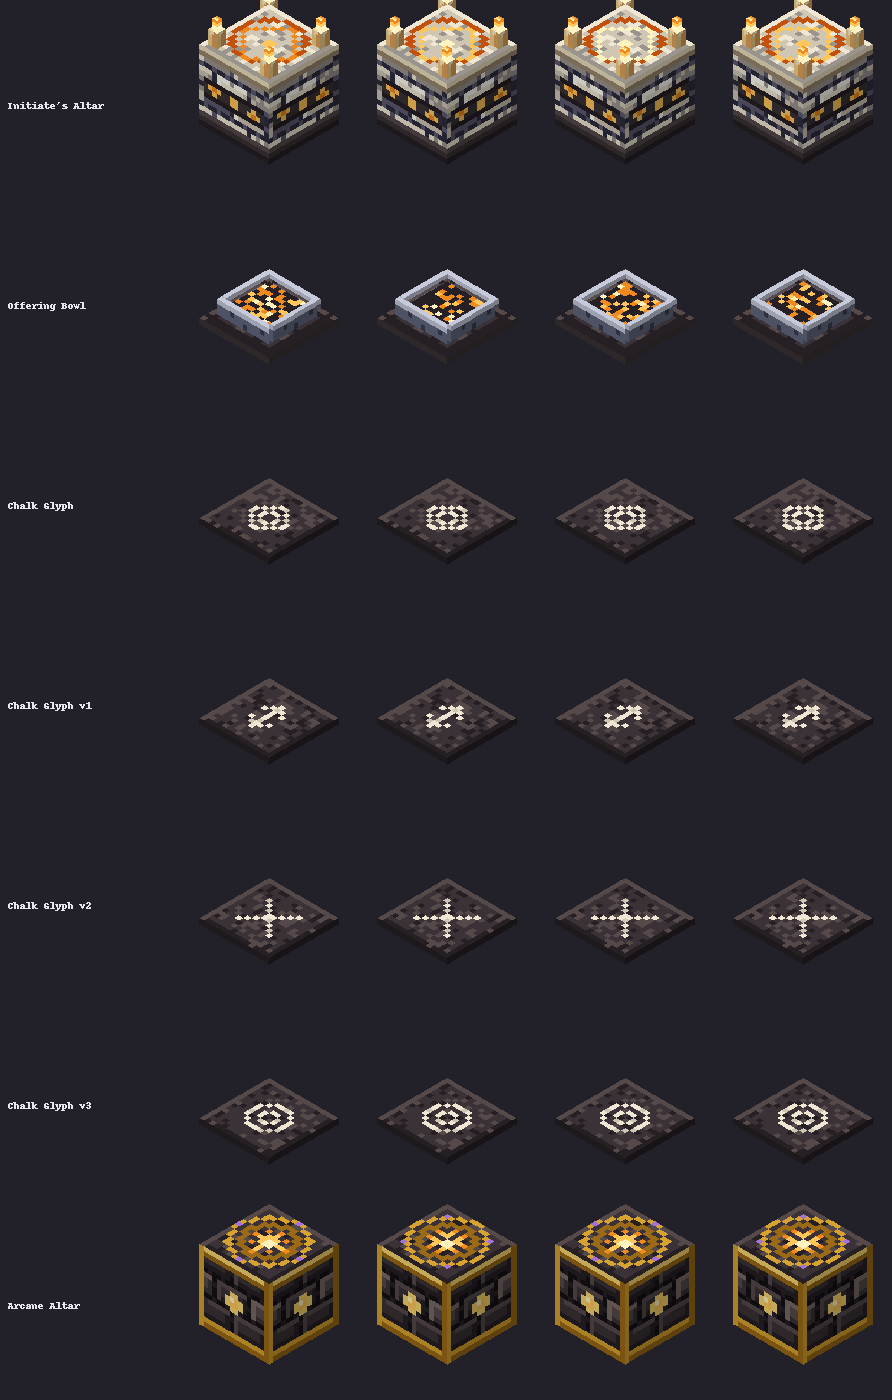
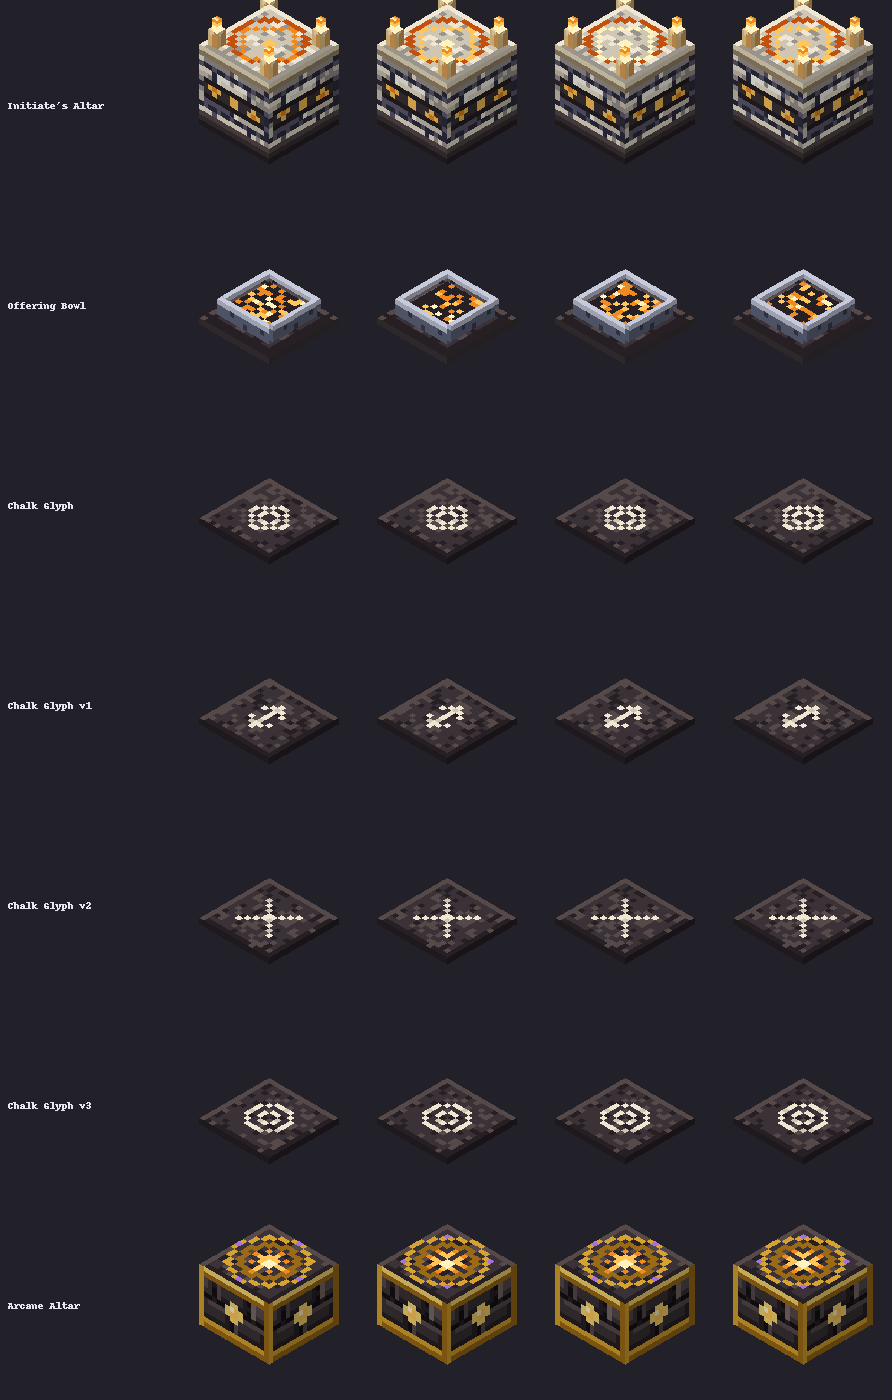
Arcane Altar skin lowered to the enchanting table's 12 px so its book shows; plan Session H: blocks move to Nexo note-block custom blocks before shipping

diff --git a/tools/art/session_g.py b/tools/art/session_g.py
@@ -210,21 +210,21 @@ def chalk_glyph(variant=0):
 
 
 def arcane_altar():
-    """The Arcane Altar (vanilla: enchanting table; the skin is a full cube so the floating book is hidden): a block of
-    dark stone banded in gold, its corners capped in gold, its sides set with ember-glowing arcane eyes; the top a slab
-    with an arcane circle and an infusion star that turn and glow (animated)."""
+    """The Arcane Altar (vanilla: enchanting table, 12 px tall): a low block of dark stone the table's height, so the
+    table's floating book shows above it - banded in gold, its corners capped in gold, its sides set with ember-glowing
+    arcane eyes; the top a slab with an arcane circle and an infusion star that turn and glow (animated)."""
     m = Model("arcane_altar")
     ash, gd, em, vi = RAMPS["ash"], RAMPS["gold"], RAMPS["ember"], RAMPS["violet"]
     side = bricks(ash, 21, row_h=5, brick_w=8, tones=(2, 2, 3))
-    for x in range(16):
-        side.putpixel((x, 0), gd[4]); side.putpixel((x, 1), gd[2]); side.putpixel((x, 15), gd[2]); side.putpixel((x, 14), gd[3])
-    for y in range(16):
+    for x in range(16):   # rows 4..15 show (the block is 12 tall): gold bands at its top and foot
+        side.putpixel((x, 4), gd[4]); side.putpixel((x, 5), gd[2]); side.putpixel((x, 15), gd[2]); side.putpixel((x, 14), gd[3])
+    for y in range(4, 16):
         for x in (0, 15):
             side.putpixel((x, y), gd[3] if x == 0 else gd[2])
-    eye = [(6, 7), (7, 6), (8, 6), (9, 7), (6, 8), (7, 9), (8, 9), (9, 8)]
+    eye = [(6, 9), (7, 8), (8, 8), (9, 9), (6, 10), (7, 11), (8, 11), (9, 10)]
     put(side, eye, gd[4])
-    put(side, [(7, 7), (8, 7), (7, 8), (8, 8)], em[4])
-    put(side, [(7, 7)], em[5])
+    put(side, [(7, 9), (8, 9), (7, 10), (8, 10)], em[4])
+    put(side, [(7, 9)], em[5])
     frames = []
     for f in range(4):
         top = slab_top(ash, 23, tone=2)
@@ -241,7 +241,7 @@ def arcane_altar():
             put(top, [(math.floor(7.5 + 6.6 * math.cos(a)), math.floor(7.5 + 6.6 * math.sin(a)))], vi[4])
         frames.append(top)
     t_side, t_top, t_bottom = m.texture("side", side), m.texture("top", frames), m.texture("bottom", slab_top(ash, 2, tone=1))
-    m.box((0, 0, 0), (16, 16, 16), {"north": t_side, "south": t_side, "west": t_side, "east": t_side,
+    m.box((0, 0, 0), (16, 12, 16), {"north": t_side, "south": t_side, "west": t_side, "east": t_side,
                                      "up": t_top, "down": t_bottom})
     return m
 

diff --git a/docs/art/SESSIONS.md b/docs/art/SESSIONS.md
@@ -451,6 +451,26 @@ bow) is designed as that model's texture, not as an icon.
 | G5 | Held 3D models: Occult Codex, Wyrmbreath, Guardian's Gaze, Abyssal Anchor, Dreadlance, Soulfire Censer, Heartwood Aegis (shield model) | - |
 | G6 | Worn armor (`equippable` layers): Abyssal, Hollow | - |
 | G7 | Placed decorations (Moonlit Lily, Witchcap, Everliving Coral, jars, chime, orrery, brazier, obelisk, eyeblossom) | - |
+| **H** | **After the textures, before shipping: move the blocks to Nexo's note-block custom blocks** (see below) | - |
+
+**Direction (the user, 2026-10-01): the server runs Nexo, so Occultech's blocks are built for Nexo's custom-block
+system.** Every block is authored as its final Nexo look: a block model (`occultech:block/<key>`) on a full-cube
+note-block block - the hitbox is always a full block, but the model may show less than a block (bowls, egg, lantern,
+glyphs...). The display-entity skins are the interim way to see them until Session H; while they last, a skin still
+has to enclose its interim vanilla block.
+
+**Session H plan - Nexo note-block blocks**
+- Every Occultech block becomes a full-cube Nexo custom block (note-block mechanic, its own note-block state) showing
+  its model: real blocks, so they appear and vanish instantly, render at full distance, cost no entities and can't be
+  cleared by ClearLag. Animated textures keep working (they are textures in the model).
+- Blocks that look smaller than a block (Offering Bowl, Brood Egg, Abyssal Lantern, glyphs, ...) keep a full hitbox
+  and display as less than a full block.
+- Offering Bowls sit a little higher above the ground than today's carpet-level plate (a full hitbox no longer
+  forces them flat).
+- Parts that move stay displays: the Guardian Eye's turning eye, Prismatic Netherrack's coloured fire, holograms.
+- To work out: Slimefun + Nexo on the same block (placement through Nexo, Slimefun's block data and menus, breaking
+  and drops, right-click), variants (glyphs, Tidal Tile corals, the Forge's facing), Nexo's item config generated
+  from build_pack, a fallback to display skins when Nexo is absent.
 
 **The technique (G1).** Nothing vanilla is retextured. A placed Occultech block keeps its vanilla block (Slimefun's);
 `items/BlockSkinService` puts an item display over it showing our model (`occultech:<id>`, 1.004x so it hides the

diff --git a/CLAUDE.md b/CLAUDE.md
@@ -49,6 +49,8 @@ debug/           /occultech command: selftest (in-game integration test), showca
 pack/            ResourcePackService: the resource pack built by tools/art/build_pack.py (src/main/pack, unfiltered),
                  item_model per item, Nexo hand-off or a self-hosted web server (config resource-pack.*)
 items/BlockSkinService  block skins: an item display with Occultech's model over each placed block (Session G)
+                 - interim: the server runs Nexo, and before shipping the blocks move to Nexo note-block custom
+                 blocks (full-cube hitbox, model may look smaller) - docs/art/SESSIONS.md, Session H
 ```
 
 **Bosses:** recipes.yml `bosses:` gives name/tier/drops/offerings; behavior is a `BossBehavior` subclass registered in
